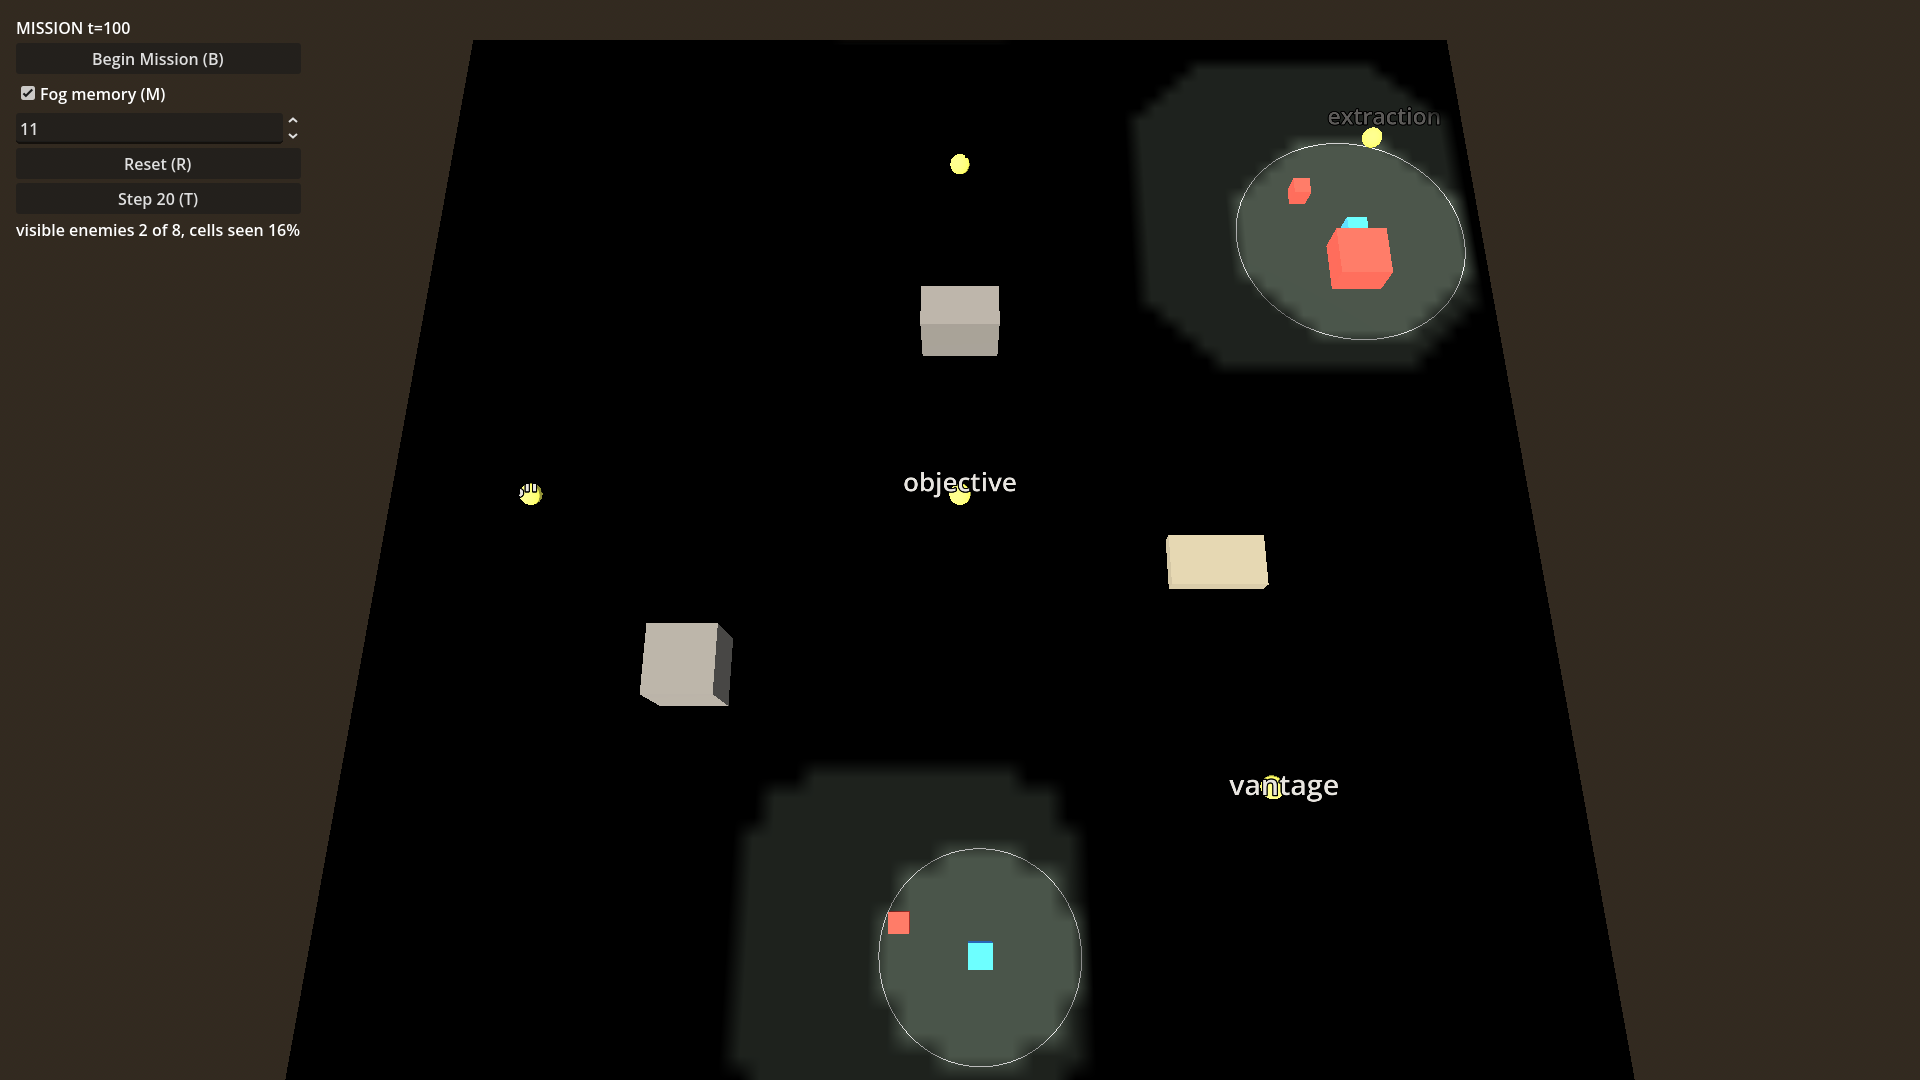
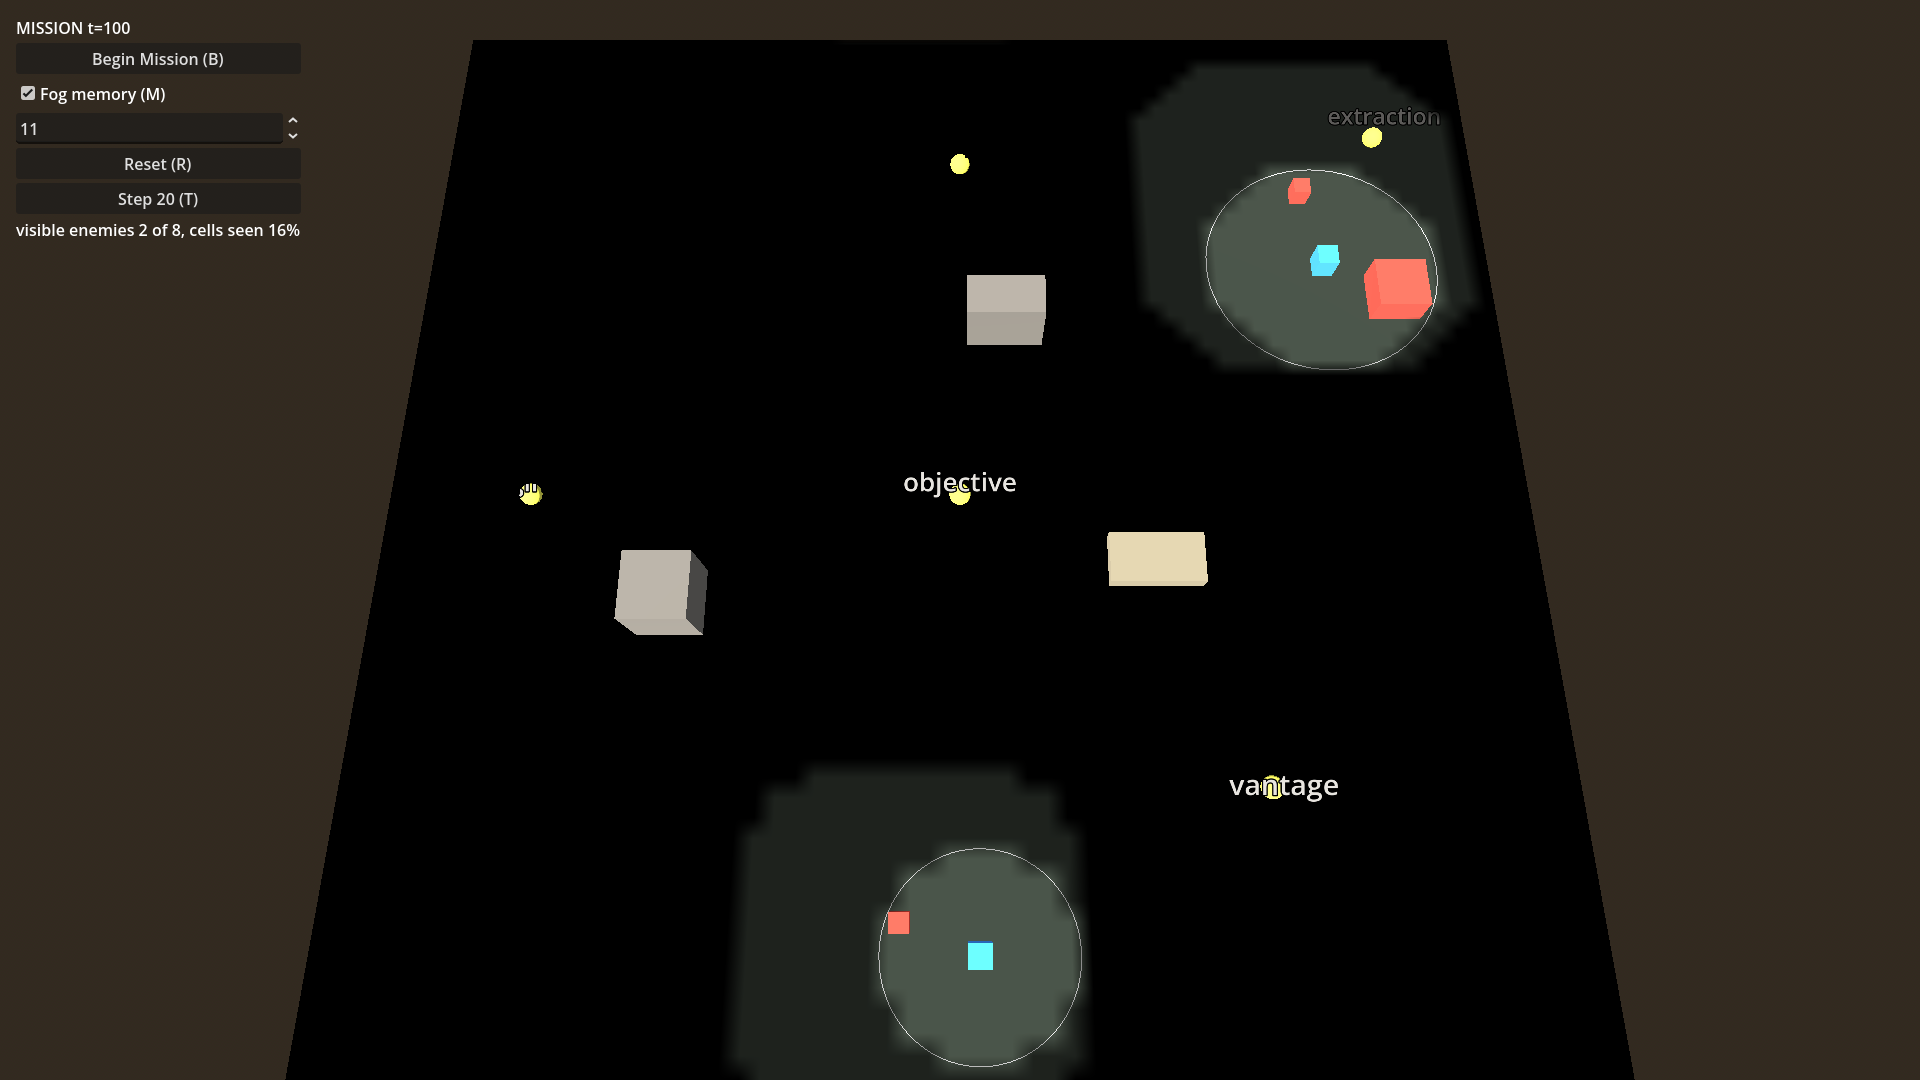
docs(mockup/fog): pass-2 verification, README fixes writeup, checklist real numbers
readme: add "Mockup review 1 fixes" para. edge scroll root cause+fix+
2560x1440 4-direction proof. seed root cause+fix+SEED-11/SPIN-12/SEED-X
proof. note seed-11 layout itself moved (jitter draws now hit every seed).

checklist: add SEED-11, SPIN-12, EDGE-1..4, SEED-X rows. fix stale
numbers from re-shot screenshots: DET-1 hash, TRAIL-X, MEM-X, RING-X
planted diff. note pre-existing vantage label overlap (not caused by
this pass, not fixed, scope discipline). note qa_seed driver verb
bypasses HUD spinbox display (qa-only, not a gameplay bug).

pass1/: re-shot full 1920x1080 batch (seed-11 map differs post-fix),
add recon_seed12.png (recon_seed11 == recon.png, not added separately).

diff --git a/scenes/mockups/fog/qa/checklist.md b/scenes/mockups/fog/qa/checklist.md
@@ -2,6 +2,8 @@
 
 Real measured numbers from `scripts/mockup_qa.sh` and `scripts/mockup_verify.sh` runs, re-measured 2026-09-22 (pass-2, post fixes) on Godot 4.6.3, llvmpipe (Compatibility/`gl_compatibility`), 1280x720 unless noted, after merging main's `b65afa8` (qa_boot frees autoloads before instantiating the mockup; the earlier "hangs after 4-5 shots" was that bug, not machine contention — see the report). The full `qa/smoke.json` now runs single-shot inside its 600s timeout. Every threshold here is a candidate; Westley owns the final number.
 
+Re-measured again 2026-09-22 for the "Mockup review 1" fixes (edge scroll, seed) — see `SEED-11`, `SPIN-12`, `EDGE-1..4`, and `SEED-X` below. Fixing the seed also perturbs seed 11's own layout (jitter/rotation/reorder draws happen for every seed, including 11), so the fixture is no longer byte-identical to the pre-fix map; four previously recorded pixel numbers below (`DET-1` pixel hash, `TRAIL-X`, `MEM-X`, `RING-X` planted diff) moved and are updated in place — see the README's "Mockup review 1 fixes" for root causes.
+
 ## Check table
 
 | id | check | clean result | plant | planted result |
@@ -16,27 +18,31 @@ Real measured numbers from `scripts/mockup_qa.sh` and `scripts/mockup_verify.sh`
 | SYM-8 | A (r=700) sees B at 500wu; B (r=200) does not see A back | true (`VERIFY OK`) | none, self-test | n/a |
 | JSON-9 | `qa_state()` round-trips JSON with every contract key; `qa_plant("nope")` false; every `PLANTS` id true | true (`VERIFY OK`) | none, self-test | n/a |
 | TIME-10 | `tick_avg` for 8 friendlies/12 enemies/64x64 grid, 200-iteration average | **0.5096 ms** (< 3ms) | none, self-test | n/a |
+| SEED-11 | seeds 11 and 12 place >= half the fixture's obstacles more than 200wu apart | 2/3 obstacles apart, `2*2>=3` (`VERIFY OK`) | seed-ignored | fails as part of `PLANT seed-ignored LIVE (3 FAIL)` |
+| SPIN-12 | dragging/typing the HUD seed spinbox (`value_changed`, not just R) regenerates: new seed reflected in `qa_state()`, `regen_count` incremented | true (`VERIFY OK`) | none, self-test | n/a |
 
-`scripts/mockup_verify.sh fog` → `VERIFY OK`, exit 0. All 6 `--plant <id>` runs → `PLANT <id> LIVE`, exit 0 (see the finishing report for the exact command block).
+`scripts/mockup_verify.sh fog` → `VERIFY OK`, exit 0. All 6 `--plant <id>` runs → `PLANT <id> LIVE`, exit 0: `fog-leak` (2 FAIL), `no-memory` (2 FAIL), `recon-shows-enemy` (1 FAIL), `radius-ignored` (1 FAIL), `los-ignored` (1 FAIL), `seed-ignored` (3 FAIL — `DET-1`, `SEED-11`, `SPIN-12` all correctly fire on the same plant now that three detectors depend on the seed actually doing something).
 
 ## Xvfb oracles (real screenshots + `qa_state()` JSON, not simulated)
 
 | oracle | clean | planted | plant | verdict |
 |---|---|---|---|---|
-| ERR-0 | `errors.txt` count 0 on every one of 12 real Xvfb runs this pass (clean 1280x720 + 1920x1080 review + map_zoom + 3 oracle plants + 1 DET-1 repeat) | — | — | pass |
+| ERR-0 | `errors.txt` count 0 on every one of 12 real Xvfb runs the earlier "pass-2 fixes" round did (clean 1280x720 + 1920x1080 review + map_zoom + 3 oracle plants + 1 DET-1 repeat); count 0 again on every one of the 7 real Xvfb runs this "Mockup review 1" round did (clean 1280x720 x2, `edges.json`@2560x1440, `seed_diff.json` clean + planted@1920x1080, `smoke.json`@1920x1080 clean + `radius-ignored`) | — | — | pass |
 | GPU-0 | `_qa.adapter` = `llvmpipe (LLVM 21.1.8, 256 bits)`, `_qa.method` = `gl_compatibility` on every run | — | — | pass |
-| DET-1 (pixel) | two independent clean recon.png runs: hash 4183577953 == 4183577953 (identical to pass-1's hash, confirming the HUD/label/camera fixes changed no sim state), `diff` **0.000000** (fuzz 5) | — | — | pass |
-| RECON-X | pixel probe at `enemies_px["102"]` (786,87 — moved from pass-1's (834,30) because the standard camera moved, item 3): 0 enemy-red hits in a 50x50 window, clean `recon.png`; HUD readout also reads "visible enemies 0 of 8" (was wrongly "3 of 8" pre-fix, item 1) | same coordinate: **216 red-pixel hits** under `recon-shows-enemy`, HUD readout reads "3 of 8" | recon-shows-enemy | LIVE |
+| DET-1 (pixel) | two independent clean recon.png runs: hash 2378956369 == 2378956369, `diff` **0.000000** (fuzz 5). Hash changed from the previous round's 4183577953 because seed 11 now draws jitter/loop-radius RNG too (see "Mockup review 1 fixes" in the README) — still reproducible across repeat runs, which is the property this check actually proves. | — | — | pass |
+| RECON-X | pixel probe at `enemies_px["102"]` (786,87 — unchanged this round: enemy 102 has `radius 0.0`, its position is seed-invariant by design, reconfirmed): 0 enemy-red hits in a 50x50 window, clean `recon.png`; HUD readout also reads "visible enemies 0 of 8" | same coordinate: **216 red-pixel hits** under `recon-shows-enemy`, HUD readout reads "3 of 8" | recon-shows-enemy | LIVE |
 | HIDDEN-X | pixel probe at `enemies_px["102"]` (786,87) in `mission_t100.png`: 0 red hits (102 not in `visible_enemy_uids`) | same coordinate: **190 red-pixel hits** under `fog-leak` | fog-leak | LIVE |
-| TRAIL-X | `diff mission_t100.png mission_t300.png` = **0.034728** (fuzz 5, ≥0.02 — units visibly moved) | `cells.explored` **held flat at 433** both ticks — see HELD below | — | partial |
-| MEM-X | `diff memory_on.png memory_off.png` = **0.060932** (fuzz 5, ≥0.05); `cells.explored` 433→0 with memory off; new `memory_off_full.png` (item 4, map height 8000) shows only the two friendlies' current-vision discs lit against pure black | with `no-memory` plant even with the checkbox on: `cells.explored` stuck at 0 instead of 433 (unchanged from pass-1) | no-memory | LIVE |
-| RING-X | `circles["1"]` 700wu open ground → **350wu** inside the interference zone (confirmed by cropping `close_ring.png`) | `circles["1"]` stays **700wu** in the same spot; `diff` vs clean `close_ring.png` = **0.416238** | radius-ignored | LIVE |
+| TRAIL-X | `diff mission_t100.png mission_t300.png` = **0.031647** (fuzz 5, ≥0.02 — units visibly moved; was 0.034728 pre-seed-fix, moved because the seed-11 layout itself changed) | `cells.explored` **held flat at 433** both ticks — see HELD below | — | partial |
+| MEM-X | `diff memory_on.png memory_off.png` = **0.059319** (fuzz 5, ≥0.05; was 0.060932 pre-seed-fix); `cells.explored` 433→0 with memory off; `memory_off_full.png` (map height 8000) shows only the two friendlies' current-vision discs lit against pure black | with `no-memory` plant even with the checkbox on: `cells.explored` stuck at 0 instead of 433 | no-memory | LIVE |
+| RING-X | `circles["1"]` 700wu open ground → **350wu** inside the interference zone (confirmed by cropping `close_ring.png`) | `circles["1"]` stays **700wu** in the same spot; `diff` vs clean `close_ring.png` = **0.371383** (was 0.416238 pre-seed-fix) | radius-ignored | LIVE |
+| EDGE-1..4 | `qa/edges.json` at `--res 2560x1440`: mouse to center then to each edge, `camera_pan` before/after. Right: `[3200,3200]` → `[4439,3200]` (+x). Bottom: → `[4439,4440]` (+z). Left: → `[3199,4440]` (-x). Top: → `[3199,3200]` (-z). All four edges pan; Westley's report was specifically that down/right did not. | — | — | pass |
+| SEED-X | `qa/seed_diff.json` at `--res 1920x1080`: clean, `diff recon_seed11.png recon_seed12.png` = **0.114447** (≥0.10 target); under `seed-ignored`, same pair = **0.000000** (<0.02 target — both screenshots forced to seed 11's map, `qa_state().seed` reports 11 for both shots) | see clean column, split by plant state | seed-ignored | LIVE |
 
 Diff fuzz: the tool's own default (5%) was used throughout; at fuzz 30 the MEM-X pair fell under its own 0.05 candidate (0.002738), so 5% is the fuzz that actually discriminates these particular pairs — the opposite finding from the landscape mockup's checklist, which needed fuzz 30 to suppress its own placer's per-run mesh-order noise. This mockup has no such per-run non-determinism (fixed primitive meshes, not a randomized piece placer), so the low-fuzz default works directly.
 
 ## Visual questions
 
-Screenshots at `docs/northstar/research/mockups/fog/pass1/` (1920x1080).
+Screenshots at `docs/northstar/research/mockups/fog/pass1/` (1920x1080). `recon_seed12.png` added this round (`recon_seed11.png` was pixel-identical to `recon.png` and not separately committed).
 
 - **Q1** (three states tellable apart at a glance): **yes**. Proving shot: `mission_t300.png` — pure black outside any circle, a visibly dimmer grey-green band around the patrol trail, and full-brightness terrain inside the two current-vision circles. Dim level used: 60% black overlay (alpha 0.6) on the explored band. This seems about right — legible but not so dark it reads as "still black." Candidate to revisit: 50% if Westley wants explored to read lighter.
 - **Q2** (can see where units have been, no enemy drawn there): **yes**, and now provable at map scale too. Proving shots: `mission_t300.png` — the dim halo around each circle is the explored trail, no enemy sits in it; `memory_off_full.png` (new, item 4) — zoomed to map height with memory off, only the two friendlies' current-vision discs are lit, confirming the "trail" in `mission_t300.png` really is memory, not something else leaking through. Caveat unchanged from pass-1: this fixture's patrol loop is short enough that `cells.explored` does not grow between tick 100 and tick 300 (TRAIL-X above) — the trail is visible but not still expanding by t300 (see HELD).
@@ -44,7 +50,9 @@ Screenshots at `docs/northstar/research/mockups/fog/pass1/` (1920x1080).
 - **Q4** (recon: every obstacle/zone/node readable, no enemy anywhere): **yes, and now the HUD agrees.** Proving shot: `recon.png` — all three obstacles, all three zones (purple interference, dark-green cover, olive hazard), all five node markers with legible `Label3D` type text (`chokepoint`, `extraction`, `staging`, `objective`, `vantage` — item 2), and both friendlies are visible; zero enemies. Pass-1 had a real bug here that this pass fixes (item 1): the HUD read "visible enemies 3 of 8" during recon even though nothing was drawn, because it read `qa_state().visible_enemy_uids` (truth, phase-blind) instead of `view_enemy_uids` (the filtered set the view actually holds). `recon.png` now reads "visible enemies 0 of 8" — RECON-X's pixel probe confirms 0 enemy-red hits at every `enemies_px` coordinate, and the readout now matches.
 - **Q5** (ring reads smaller inside interference; zone reads as a third treatment): **yes**. Proving shot: `close_ring.png` — the friendly's ring is visibly smaller than the interference zone's own boundary, and the zone's purple tint is clearly distinct from both black (never-seen) and grey-dim (explored). Data: `circles["1"]` 700wu → 350wu (exactly the 0.5 intensity halving).
 - **Q6** (memory off: everything without current vision black): **yes for the ground/fog layer, confirmed at two zoom levels now.** Proving shots: `memory_off.png` (standard camera) and the new `memory_off_full.png` (item 4, map height 8000) — both show the dim halo gone entirely, only the two friendlies' current-vision discs lit, everything else pure black. **Caveat, unchanged and still open** (item 5, deliberately not resolved this pass): obstacle boxes, zone patches, and node markers stay fully lit in both memory-off shots even in pure-black areas, because §3 of the brief says to draw terrain features "always," which contradicts the derived rule in `references/E-12/notes.md` ("never seen: pure black, no terrain"). See "Questions for Westley" #1 in the README — left as a flagged tension, not silently resolved.
-- **Q7** (hygiene: magenta, black-where-shouldn't-be, clipped/overlapping text): **no** issues found in any of the 9 pass1 shots. HUD text and the now-larger node labels (`pixel_size` 0.55→2.2, item 2) are legible at both 1280x720 and 1920x1080 with no clipping or overlap.
+- **Q7** (hygiene: magenta, black-where-shouldn't-be, clipped/overlapping text): **no new** issues found in any of the 10 pass1 shots (9 carried over + `recon_seed12.png`). One pre-existing, unrelated nit reconfirmed in both `recon.png` and `recon_seed12.png`: the `vantage` node's marker sphere sits on top of the 'n' in its own label — present before this round's fixes too (node positions are not jittered), not caused by either fix, not fixed here (scope discipline; noted, not touched).
+
+**Not fixed, noted only:** the QA driver's `seed` verb (`qa_seed(n)`, used by `qa/seed_diff.json`) calls `_regenerate(n)` directly and never touches the HUD spinbox widget, so `recon_seed12.png`'s spinbox still displays `11` even though `qa_state().seed` is 12 for that shot — a real user changing the spinbox (or the `SPIN-12` self-test, which sets `_seed_spinbox.value` directly) does not have this mismatch. QA-shortcut-only cosmetic gap, not a gameplay bug; left alone per scope discipline.
 
 ## HELD
 

diff --git a/docs/northstar/research/mockups/fog/README.md b/docs/northstar/research/mockups/fog/README.md
@@ -34,10 +34,18 @@ All in `qa/checklist.md` next to the scene: the full check table (clean/plant/pl
 
 ## Next step
 
-The pass-1 screenshots (`recon`, `begin`, `mission_t100`, `mission_t300`, `memory_off`, `memory_off_full`, `in_interference`, `close_ring`, `map_zoom`, all 1920x1080) are committed under `pass1/`, refreshed after a fresh-eyes pass fixed the HUD readout, node label size, and standard camera framing (see "Pass-2 fixes" above). The mockup awaits Westley's look, especially on the five questions above.
+The pass-1 screenshots (`recon`, `begin`, `mission_t100`, `mission_t300`, `memory_off`, `memory_off_full`, `in_interference`, `close_ring`, `map_zoom`, plus `recon_seed12` added for the "Mockup review 1" seed fix below, all 1920x1080) are committed under `pass1/`, re-shot again after the edge-scroll and seed fixes (seed 11's own layout moved — see "Mockup review 1 fixes"). The mockup awaits Westley's look, especially on the five questions above.
 
 ## Mockup review 1 (Westley, 2026-09-22)
 
 Verbatim: "Can't move down/right on fog prototype either, bug is consistent across multiple prototypes. Changing seed doesn't do anything, otherwise it works well."
 
-Pass 2 brief: `docs/northstar/plans/briefs/2026-09-22-p5-fog-mockup-pass2.md` (edge scroll compares canvas-space mouse against window pixels; the seed only jitters patrol phases while the map is a fixed fixture).
+Pass 2 brief: `docs/northstar/plans/briefs/2026-09-22-p5-fog-mockup-pass2.md` (edge scroll compares canvas-space mouse against window pixels; the seed only jitters patrol phases while the map is a fixed fixture). Both fixed — see "Mockup review 1 fixes" below.
+
+## Mockup review 1 fixes
+
+**Edge scroll.** Root cause: `camera_rig.gd`'s edge check compared the tracked mouse position against `DisplayServer.window_get_size()` (real window pixels), but the mouse position itself was tracked in canvas space (`get_viewport().get_visible_rect().size`, the project's fixed 1920x1080 base resolution under `canvas_items` stretch — see the shared README's own note on this). On Westley's window (4480x1440, real pixels) the right/bottom thresholds compared against numbers far larger than the canvas ever reaches, so those two edges were unreachable; left/top happened to work because 0 is 0 in both spaces. Separately, `get_viewport().get_mouse_position()` tracks the real `DisplayServer` pointer, which never moves under Xvfb's synthetic `move` verb, so the bug was invisible to any oracle built on that call. Fix: track the mouse from `_unhandled_input`'s `InputEventMouseMotion.position` (fires for both real hardware and the QA driver's synthetic events) and compare it against the same canvas-space `get_viewport().get_visible_rect().size` the zone thresholds are already defined in, one coordinate space throughout. Also skip edge scroll while `gui_get_hovered_control() != null`, since the HUD panel sits inside the top-left edge zone. Evidence: `qa/edges.json` run at `--res 2560x1440` (`scripts/mockup_qa.sh run fog scenes/mockups/fog/qa/edges.json <out> --res 2560x1440`, 0 errors) — `camera_pan` moved from `[3200, 3200]` (center) to `[4439, 3200]` on a right-edge mouse (+x), to `[4439, 4440]` on a bottom-edge mouse (+z), to `[3199, 4440]` on a left-edge mouse (-x), and to `[3199, 3200]` on a top-edge mouse (-z) — all four directions now pan, including the two Westley reported dead.
+
+**Seed.** Root cause: `truth.generate(seed)` seeded an RNG that only drew enemy patrol phase offsets; every obstacle, zone, node, structure, and friendly waypoint order came straight from the loaded fixture/scenario files regardless of seed, so two different seeds produced numerically distinct but visually indistinguishable maps. Fix, all inside `generate()`: every obstacle, zone, and structure position is jittered by up to 400wu (`_jitter()`), the interference zone is additionally rotated around the canvas center by a seed-derived angle (`_rotate_interference_zone()`), each enemy that patrols a loop (`radius > 0`) gets a seed-picked loop radius from a fixed candidate set and a seed-picked direction, and each friendly's waypoint list is reordered and optionally reversed from a seed-derived offset (`_reorder_waypoints()`). `fog_mockup.gd:_regenerate()` calls `_fog_view.rebuild_terrain()` after `generate()` so the rebuilt obstacle/zone/structure meshes reflect the new positions, and `_grid.setup()` gives the fog grid a clean slate to re-derive against the new layout. `hud.gd`'s seed spinbox now connects `value_changed` (in addition to the existing R-key reseed) so dragging or typing a new seed regenerates immediately. Evidence: headless `SEED-11` (`verify.gd`) asserts seeds 11 and 12 place at least half the fixture's obstacles more than 200wu apart — passes clean, fails under the `seed-ignored` plant (confirmed `PLANT seed-ignored LIVE`, 3 failures: `DET-1`, `SEED-11`, `SPIN-12`). Headless `SPIN-12` sets the HUD spinbox's `value` directly (not via a UI click) and asserts `qa_state().seed` and `regen_count` both updated. The Xvfb pixel oracle (`qa/seed_diff.json`, `--res 1920x1080`): clean, `diff recon_seed11.png recon_seed12.png` = **0.114447** (>= 0.10, the two seeds now render visibly different maps); under the `seed-ignored` plant, both screenshots come out **0.000000** apart (both seeds forced to 11 internally, `qa_state().seed` reports 11 for the seed-12 shot too) — the plant is a clean, provable positive control on both sides. `recon_seed11.png` was pixel-identical (diff 0.000000) to the batch's own `recon.png`, so only `recon_seed12.png` was added to `pass1/`.
+
+Side effect, expected and correct: seed 11's own layout is no longer byte-identical to the pre-fix screenshots, because the RNG stream is now consumed by jitter and enemy-loop draws even when the seed is 11 — the fixture is still the deterministic base, but every seed (11 included) now perturbs it. The full `pass1/` batch was re-shot at 1920x1080 against the fixed camera framing and hardcoded `qa_move` target used by `qa/smoke.json` (already re-aimed at the new seed-11 interference zone position in this branch's earlier commit); every existing headless check (`VIS-2`, `LOS-3`, `VIEW-4`, `RECON-5`, `MEM-6`, `STRUCT-7`, `SYM-8`, `JSON-9`, `TIME-10`) stayed green, and all 6 plants (`fog-leak`, `no-memory`, `recon-shows-enemy`, `radius-ignored`, `los-ignored`, `seed-ignored`) came back `LIVE`. Three of `qa/checklist.md`'s recorded pixel numbers moved because the new seed-11 layout is visually different from the old one and their screenshots were regenerated: `DET-1`'s recorded hash (`4183577953` → `2378956369`, both reproducible across two independent clean runs), `TRAIL-X` (`0.034728` → `0.031647`), `MEM-X` (`0.060932` → `0.059319`), and `RING-X`'s planted diff (`0.416238` → `0.371383`, `circles["1"]` still correctly stuck at 700wu under `radius-ignored`). The `enemies_px["102"]` pixel coordinate `RECON-X`/`HIDDEN-X` probe against (enemy 102 has `radius 0.0`, so its position is seed-invariant by design) is unchanged at `(786, 87)` at 1280x720 — reconfirmed this pass, not stale.
